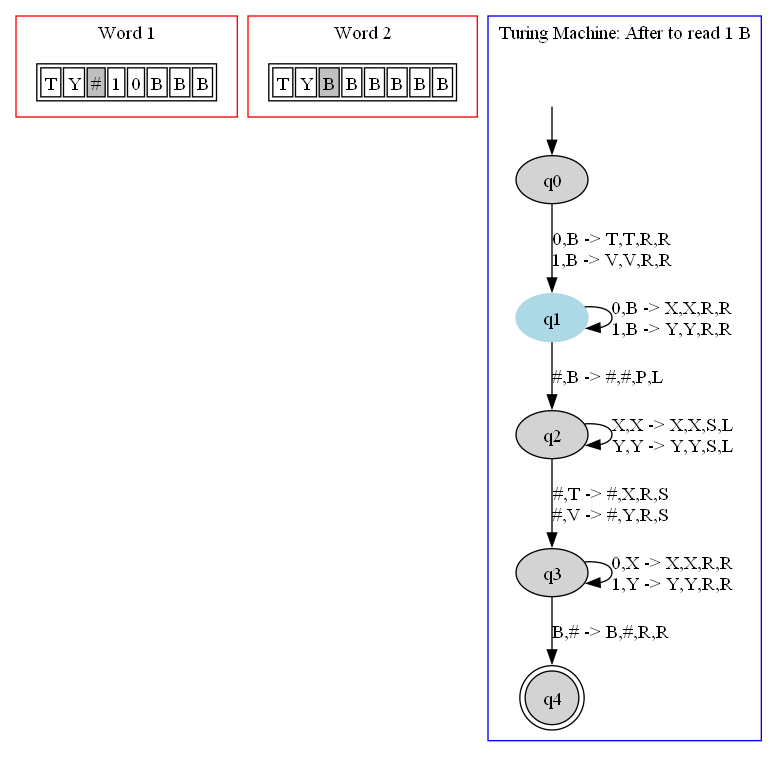
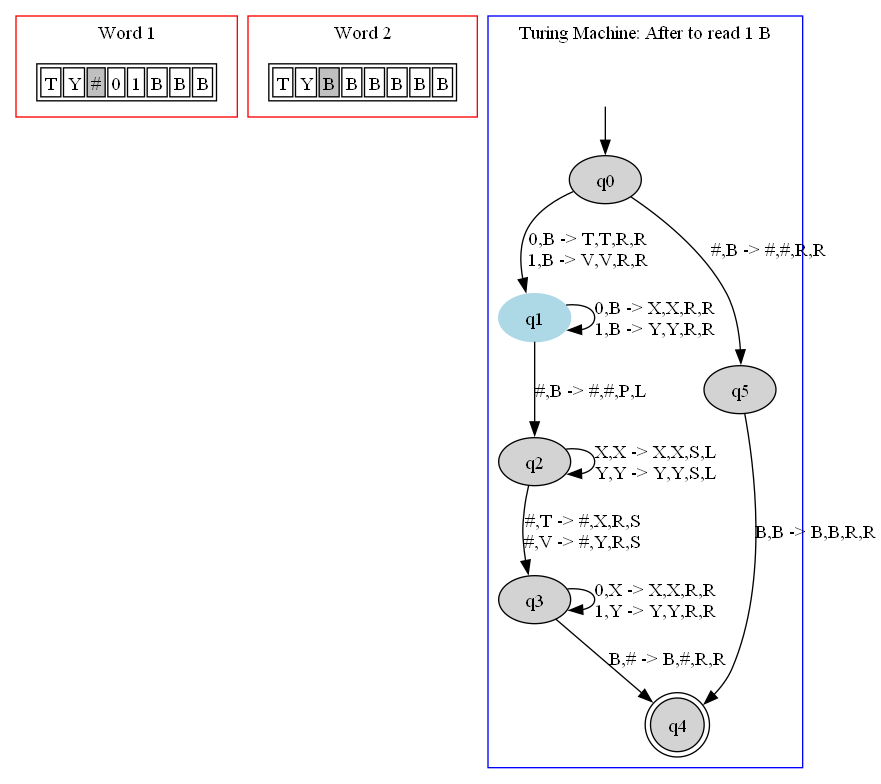
Fixing empty

Changed region(s): [[0.0, 0.0, 0.9884, 0.9723], [0.556, 0.8203, 0.9266, 1.0], [0.7722, 0.638, 1.0, 0.6988]]

diff --git a/TM2FITAS/turingmachinesamples.cpp b/TM2FITAS/turingmachinesamples.cpp
@@ -16,6 +16,7 @@ TupleOfIdOfAcceptanceStateAndStructure TuringMachineSamples::get_structure_of_q7
             {}, //vetor chegando no 2
             {}, //vetor chegando no 3
             {}, //vetor chegando no 4
+            {Entry('#','B','#','#','R','R')}, //vetor chegando no 5
         },
 
         //vetor partindo do 1
@@ -25,6 +26,7 @@ TupleOfIdOfAcceptanceStateAndStructure TuringMachineSamples::get_structure_of_q7
             {Entry('#','B','#','#','P','L')}, //vetor chegando no 2
             {}, //vetor chegando no 3
             {}, //vetor chegando no 4
+            {}, //vetor chegando no 5
         },
 
         //vetor partindo do 2
@@ -34,6 +36,7 @@ TupleOfIdOfAcceptanceStateAndStructure TuringMachineSamples::get_structure_of_q7
             {Entry('X','X','X','X','S','L'),Entry('Y','Y','Y','Y','S','L')}, //vetor chegando no 2
             {Entry('#','T','#','X','R','S'),Entry('#','V','#','Y','R','S')}, //vetor chegando no 3
             {}, //vetor chegando no 4
+            {}, //vetor chegando no 5
         },
 
         //vetor partindo do 3
@@ -43,6 +46,7 @@ TupleOfIdOfAcceptanceStateAndStructure TuringMachineSamples::get_structure_of_q7
             {}, //vetor chegando no 2
             {Entry('0','X','X','X','R','R'),Entry('1','Y','Y','Y','R','R')}, //vetor chegando no 3
             {Entry('B','#','B','#','R','R')}, //vetor chegando no 4
+            {}, //vetor chegando no 5
         },
 
         //vetor partindo do 4
@@ -53,6 +57,17 @@ TupleOfIdOfAcceptanceStateAndStructure TuringMachineSamples::get_structure_of_q7
             {}, //vetor chegando no 2
             {}, //vetor chegando no 3
             {}, //vetor chegando no 4
+            {}, //vetor chegando no 5
+        },
+
+        //vetor partindo do 5
+        {
+            {}, //vetor chegando no 0
+            {}, //vetor chegando no 1
+            {}, //vetor chegando no 2
+            {}, //vetor chegando no 3
+            {Entry('B','B','B','B','R','R')}, //vetor chegando no 4
+            {}, //vetor chegando no 5
         },
     };
 

diff --git a/TM2FITAS/main.cpp b/TM2FITAS/main.cpp
@@ -17,16 +17,15 @@ int main(int argc, char *argv[])
 
     //tm.is_this_input_string_in_the_language_with_message("0#0BBB", true);   //Ex1: This must be accepted
     //tm.is_this_input_string_in_the_language_with_message("1#1BBB", true);   //Ex2: This must be accepted
-
     //tm.is_this_input_string_in_the_language_with_message("#BBB", true);   //Ex3: This must be accepted
 
-    //tm.is_this_input_string_in_the_language_with_message("01#01BBB", true);   //Ex4: This must be accepted
+    tm.is_this_input_string_in_the_language_with_message("01#01BBB", true);   //Ex4: This must be accepted
 
     //tm.is_this_input_string_in_the_language_with_message("10#10BBB", true);   //Ex5: This must be accepted
 
     //tm.is_this_input_string_in_the_language_with_message("0#1BBB", true);   //Ex6: This must NOT be accepted
     //tm.is_this_input_string_in_the_language_with_message("1#0BBB", true);   //Ex7: This must NOT be accepted
-    tm.is_this_input_string_in_the_language_with_message("01#10BBB", true);   //Ex8: This must NOT be accepted
+    //tm.is_this_input_string_in_the_language_with_message("01#10BBB", true);   //Ex8: This must NOT be accepted
 
     //return a.exec();
     return 0;
